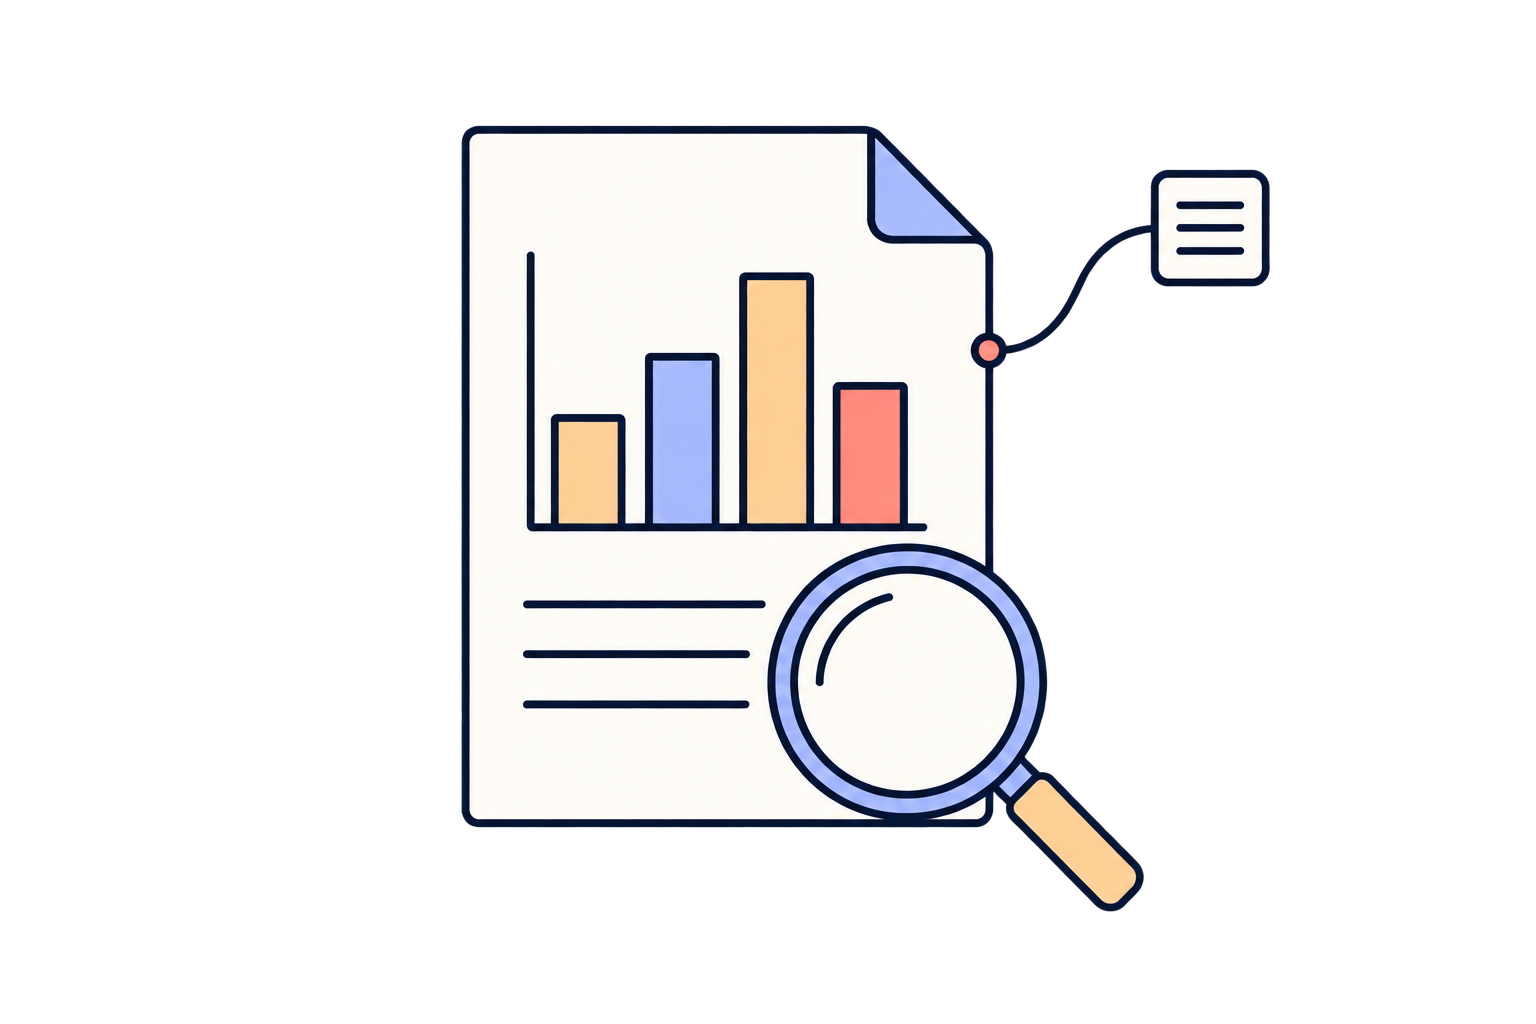
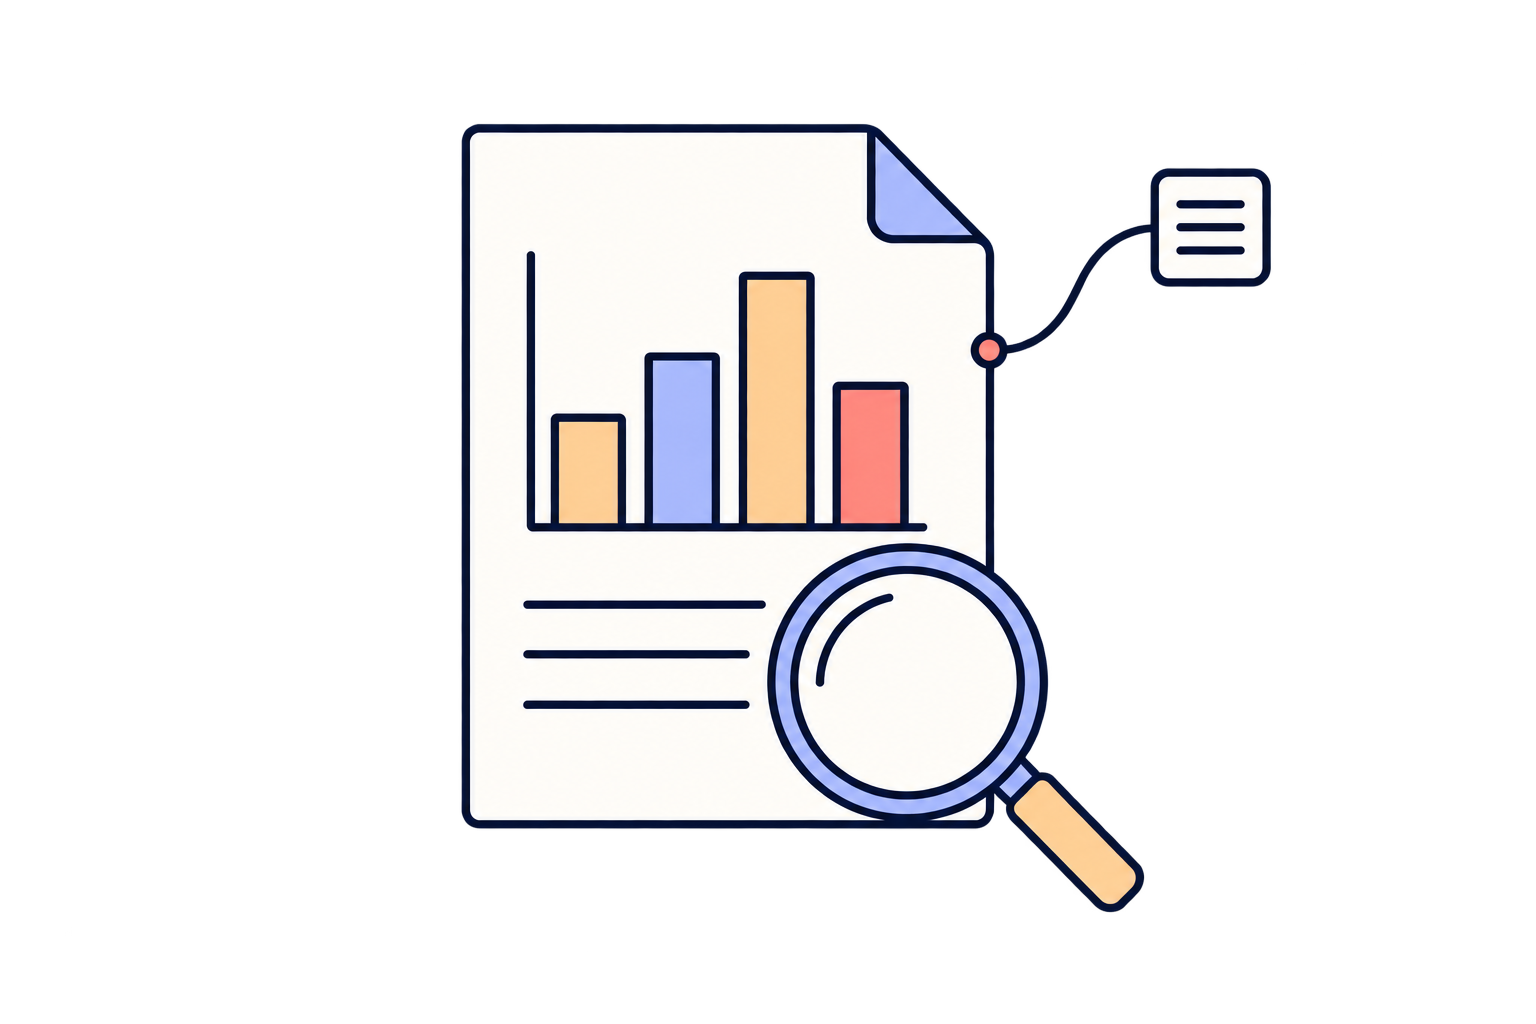
fix: tighten citation validation and prompt evaluation

diff --git a/web/assets/css/budgetlens.css b/web/assets/css/budgetlens.css
@@ -1,6 +1,7 @@
 :root {
   color-scheme: light;
-  font-family: Inter, ui-sans-serif, system-ui, -apple-system, BlinkMacSystemFont, "Segoe UI", sans-serif;
+  font-family: "DM Sans", ui-sans-serif, system-ui, -apple-system, BlinkMacSystemFont, "Segoe UI", sans-serif;
+  --bl-display: "Space Grotesk", "DM Sans", ui-sans-serif, system-ui, sans-serif;
   color: #485264;
   background: #faf7f2;
   font-synthesis: none;
@@ -461,13 +462,13 @@ body { background: var(--bl-page); }
 .hero-copy h1 {
   margin: 2px 0 17px;
   color: var(--bl-ink);
-  font-family: Georgia, "Times New Roman", serif;
+  font-family: var(--bl-display);
   font-size: clamp(48px, 4.7vw, 64px);
   font-weight: 600;
   letter-spacing: -.055em;
   line-height: .98;
 }
-.hero-copy h1 em { color: #aa655d; font-weight: 500; }
+.hero-copy h1 em { color: #aa655d; font-style: normal; font-weight: 600; }
 .hero-lede { max-width: 490px; color: #4f5d68; font-size: 17px; line-height: 1.58; }
 .hero-actions { align-items: center; gap: 21px; margin-top: 23px; }
 .hero-text-link { color: var(--bl-ink); font-size: 14px; font-weight: 650; text-underline-offset: 4px; }
@@ -535,14 +536,14 @@ body { background: var(--bl-page); }
 .question-card-compact .question-form-bottom .bl-button { min-height: 39px; }
 .question-card-compact .question-suggestions { margin-top: 11px; }
 .hero-question-empty { padding: 21px 24px; border-color: rgba(255,255,255,.75); background: rgba(255,255,252,.78); -webkit-backdrop-filter: blur(18px); backdrop-filter: blur(18px); }
-.hero-question-empty h2 { margin: 7px 0; color: var(--bl-ink); font: 600 22px/1.2 Georgia, "Times New Roman", serif; }
+.hero-question-empty h2 { margin: 7px 0; color: var(--bl-ink); font: 600 22px/1.2 var(--bl-display); }
 .hero-question-empty p:not(.bl-kicker) { margin: 0 0 13px; color: var(--bl-muted); font-size: 13px; }
 .trust-strip { border-color: var(--bl-line); }
 .trust-strip > div { padding: 20px 24px; }
 .trust-strip strong { color: var(--bl-ink); font-weight: 650; }
 .trust-strip span { color: var(--bl-muted); }
 .process-section { padding-block: 78px; }
-.section-intro h2, .section-heading h2 { color: var(--bl-ink); font-family: Georgia, "Times New Roman", serif; font-weight: 500; letter-spacing: -.045em; }
+.section-intro h2, .section-heading h2 { color: var(--bl-ink); font-family: var(--bl-display); font-weight: 600; letter-spacing: -.045em; }
 .process-grid { gap: 20px; }
 .process-item { border-top: 1px solid var(--bl-line); }
 .process-rule { width: 36px; height: 2px; background: #d37d6d; }
@@ -552,7 +553,7 @@ body { background: var(--bl-page); }
 .report-placeholder { border-color: var(--bl-line); background: rgba(255,255,252,.64); }
 .report-placeholder span { background: #e9e6ef; }
 .closing-cta { min-height: 230px; border: 1px solid #e1d9d8; border-radius: 20px; background: linear-gradient(110deg, #f7e8da, #f4e9e9 58%, #e9e8f7); color: var(--bl-ink); }
-.closing-copy h2 { color: var(--bl-ink); font-family: Georgia, "Times New Roman", serif; font-weight: 500; letter-spacing: -.045em; }
+.closing-copy h2 { color: var(--bl-ink); font-family: var(--bl-display); font-weight: 600; letter-spacing: -.045em; }
 .closing-cta .bl-kicker-inverse { color: var(--bl-spruce); }
 
 /* Report cards and source detail */
@@ -560,14 +561,14 @@ body { background: var(--bl-page); }
 .report-card:hover { border-color: #bbb8ce; box-shadow: 0 8px 24px rgba(34,38,68,.08); transform: translateY(-2px); }
 .record-source { color: var(--bl-spruce); }
 .record-period, .period-tag { background: #eeecf7; color: var(--bl-forest); }
-.report-card h3 { color: var(--bl-ink); font-family: Georgia, "Times New Roman", serif; font-weight: 500; letter-spacing: -.035em; }
+.report-card h3 { color: var(--bl-ink); font-family: var(--bl-display); font-weight: 600; letter-spacing: -.035em; }
 .record-figure { border-left: 1px solid #cf887a; background: #f7eee8; }
 .record-figure-label { color: var(--bl-spruce); }
 .record-figure strong, .report-action { color: var(--bl-forest); }
 .report-heading { border-color: var(--bl-line); }
-.report-heading h1 { color: var(--bl-ink); font-family: Georgia, "Times New Roman", serif; font-weight: 500; letter-spacing: -.045em; }
+.report-heading h1 { color: var(--bl-ink); font-family: var(--bl-display); font-weight: 600; letter-spacing: -.045em; }
 .figures-panel, .source-evidence { border-radius: 15px; }
-.panel-heading h2 { color: var(--bl-ink); font-family: Georgia, "Times New Roman", serif; font-weight: 500; letter-spacing: -.035em; }
+.panel-heading h2 { color: var(--bl-ink); font-family: var(--bl-display); font-weight: 600; letter-spacing: -.035em; }
 .report-summary { color: var(--bl-copy); }
 .figure-item, .extracted-metric { border-color: #e1dee5; background: #f7f5f2; }
 .figure-item strong, .extracted-metric strong { color: var(--bl-forest); }
@@ -579,7 +580,7 @@ body { background: var(--bl-page); }
 .citation-card { border-color: #e4e2d7; }
 
 /* Upload */
-.upload-heading h1 { color: var(--bl-ink); font-family: Georgia, "Times New Roman", serif; font-weight: 500; letter-spacing: -.045em; }
+.upload-heading h1 { color: var(--bl-ink); font-family: var(--bl-display); font-weight: 600; letter-spacing: -.045em; }
 .upload-heading h1 span { color: var(--bl-forest); }
 .upload-art { height: 300px; border: 0; border-radius: 0; background: transparent; }
 .upload-art img { object-fit: contain; }
@@ -592,8 +593,8 @@ body { background: var(--bl-page); }
 .upload-privacy { border-color: var(--bl-line); }
 .dark-aside { border-color: var(--bl-forest-deep); background: var(--bl-forest-deep); }
 .privacy-aside { background: rgba(255,255,252,.76); }
-.privacy-aside h3 { color: var(--bl-ink); font-family: Georgia, "Times New Roman", serif; font-weight: 500; }
-.extracted-report h2 { color: var(--bl-ink); font-family: Georgia, "Times New Roman", serif; font-weight: 500; letter-spacing: -.035em; }
+.privacy-aside h3 { color: var(--bl-ink); font-family: var(--bl-display); font-weight: 600; }
+.extracted-report h2 { color: var(--bl-ink); font-family: var(--bl-display); font-weight: 600; letter-spacing: -.035em; }
 
 .bl-footer { border-color: var(--bl-line); }
 .bl-footer .bl-brand { color: var(--bl-ink); }

diff --git a/web/pages/reports/[id].vue b/web/pages/reports/[id].vue
@@ -41,7 +41,6 @@ onMounted(loadReport);
       <template v-else-if="report">
         <header class="report-heading">
           <div class="report-heading-copy">
-            <p class="bl-kicker">{{ report.sourceName || report.organization || 'Public source' }}</p>
             <h1>{{ report.title }}</h1>
             <p class="report-meta">{{ [report.organization, report.period].filter(Boolean).join(' · ') }}</p>
           </div>
@@ -72,14 +71,13 @@ onMounted(loadReport);
               <p class="figures-note">Figures are transcribed from the report. AI answers appear separately with their supporting evidence.</p>
             </section>
 
-            <section v-if="report.evidence?.length" class="source-evidence bl-panel" aria-labelledby="evidence-title">
+            <section v-if="report.evidence?.some((item) => item.quote?.trim())" class="source-evidence bl-panel" aria-labelledby="evidence-title">
               <div class="panel-heading">
                 <div>
-                  <p class="bl-kicker">Check the wording</p>
                   <h2 id="evidence-title">Evidence passages</h2>
                 </div>
               </div>
-              <blockquote v-for="(item, index) in report.evidence" :key="`${item.page}-${index}`" class="source-passage">
+              <blockquote v-for="(item, index) in report.evidence.filter((item) => item.quote?.trim())" :key="`${item.page}-${index}`" class="source-passage">
                 <span>{{ item.label || 'Report passage' }}</span>
                 <p>“{{ item.quote }}”</p>
                 <small>{{ item.page == null ? 'Source page not identified' : `Page ${item.page}` }}</small>
@@ -93,10 +91,6 @@ onMounted(loadReport);
               :ask-path="`/budget/reports/${encodeURIComponent(report.id)}/ask`"
               :suggestions="['Summarize the key points', 'What dates or figures should I note?']"
             />
-            <div class="source-note">
-              <span class="source-note-label">Answer scope</span>
-              <p>Answers use this source only. Passage says when the document does not provide enough information.</p>
-            </div>
           </aside>
         </div>
       </template>

diff --git a/web/pages/index.vue b/web/pages/index.vue
@@ -76,7 +76,7 @@ onMounted(loadReports);
 
       <section class="trust-strip" aria-label="How Passage works">
         <div><strong>Page-level citations</strong><span>Trace answers back to the source.</span></div>
-        <div><strong>Grounded answers</strong><span>Passage says when a document is silent.</span></div>
+        <div><strong>Grounded answers</strong><span>Flags missing evidence.</span></div>
         <div><strong>Private PDF sessions</strong><span>Uploads stay out of the example library.</span></div>
       </section>
 
@@ -99,7 +99,7 @@ onMounted(loadReports);
           <article class="process-item">
             <span class="process-rule" aria-hidden="true"></span>
             <h3>Check the evidence</h3>
-            <p>Review the cited passage or see when the report does not support an answer.</p>
+            <p>See the cited passage, or when the document does not support an answer.</p>
           </article>
         </div>
       </section>
@@ -129,7 +129,6 @@ onMounted(loadReports);
           <p>Bring a PDF to ask questions and check the cited passages.</p>
           <NuxtLink to="/upload" class="bl-button bl-button-primary">Upload a PDF</NuxtLink>
         </div>
-        <p class="library-source-note">This sample is a published public report. Answers appear separately with the passages that support them.</p>
       </section>
 
       <section class="closing-cta" aria-labelledby="closing-title">

diff --git a/web/components/BudgetQuestion.vue b/web/components/BudgetQuestion.vue
@@ -50,9 +50,7 @@ async function ask(value = question.value) {
 <template>
   <section class="question-card bl-panel" :class="{ 'question-card-compact': compact }" aria-labelledby="ask-title">
     <div class="question-intro">
-      <p class="bl-kicker">Ask this document</p>
       <h2 id="ask-title">{{ title }}</h2>
-      <p>Answers use this document only. Supporting passages appear when the source can verify an answer.</p>
     </div>
 
     <form class="question-form" @submit.prevent="ask()">
@@ -91,7 +89,7 @@ async function ask(value = question.value) {
           <span class="citation-label">{{ citation.label || 'Source passage' }}</span>
           <p v-if="citation.kind === 'metadata'">{{ citation.value }}</p>
           <p v-else>“{{ citation.quote }}”</p>
-          <small>{{ citation.kind === 'metadata' ? 'Report listing metadata' : citation.page == null ? 'Source page not identified' : `Page ${citation.page}` }}</small>
+          <small>{{ citation.kind === 'metadata' ? 'Document listing metadata' : citation.page == null ? 'Source page not identified' : `Page ${citation.page}` }}</small>
         </article>
       </div>
       <p v-else class="no-citation">No supporting passage was returned. Treat this answer as unverified.</p>

diff --git a/web/app.vue b/web/app.vue
@@ -6,7 +6,7 @@ useHead({
     { rel: 'icon', type: 'image/png', href: '/brand/passage-mark.png' },
     { rel: 'preconnect', href: 'https://fonts.googleapis.com' },
     { rel: 'preconnect', href: 'https://fonts.gstatic.com', crossorigin: 'anonymous' },
-    { rel: 'stylesheet', href: 'https://fonts.googleapis.com/css2?family=Inter:wght@400;500;600;700;800;900&display=swap' },
+    { rel: 'stylesheet', href: 'https://fonts.googleapis.com/css2?family=DM+Sans:wght@400;500;600;700;800;900&family=Space+Grotesk:wght@500;600;700&display=swap' },
   ],
 });
 </script>
@@ -18,7 +18,7 @@ useHead({
 <style>
 :root {
   color-scheme: light;
-  font-family: Inter, ui-sans-serif, system-ui, -apple-system, BlinkMacSystemFont, "Segoe UI", sans-serif;
+  font-family: "DM Sans", ui-sans-serif, system-ui, -apple-system, BlinkMacSystemFont, "Segoe UI", sans-serif;
   color: #273148;
   background: #faf7f2;
   font-synthesis: none;

diff --git a/api/src/evaluate-budget-prompt.ts b/api/src/evaluate-budget-prompt.ts
@@ -16,7 +16,7 @@ const cases = JSON.parse(
 ) as EvaluationCase[];
 let failed = 0;
 
-if (!/only from the supplied report evidence/i.test(BUDGET_QA_INSTRUCTIONS) ||
+if (!/only from the supplied document evidence/i.test(BUDGET_QA_INSTRUCTIONS) ||
   !/official report-listing field/i.test(BUDGET_QA_INSTRUCTIONS) ||
   !/use it for date or period questions/i.test(BUDGET_QA_INSTRUCTIONS) ||
   !/empty citationIndexes array/i.test(BUDGET_QA_INSTRUCTIONS) ||

diff --git a/docs/design/study.md b/docs/design/study.md
@@ -4,7 +4,7 @@
 
 ## References and transferable patterns
 
-| Reference | Observed pattern | Use in BudgetLens |
+| Reference | Observed pattern | Use in Passage |
 |---|---|---|
 | [Trajectory](https://www.trajectory.ai/) | Airy editorial opening, warm pale color fields, restrained grid lines, and fine illustrated artwork. Later sections shift in scale and tone. | Keep the page spacious. Use paper colors, line art, and deliberate changes between sections. Do not copy the product's artwork or branding. |
 | User-supplied Wrk screenshot | Clear navigation, visible calls to action, and a large product interface shown as proof. | Make upload and example browsing easy to find. Show live source details rather than customer logos or invented metrics. |
@@ -24,7 +24,7 @@
 ## Visual decisions
 
 - Warm paper canvas; deep navy ink; coral and periwinkle accents. No green.
-- Georgia for large editorial headings and the existing system sans for body and controls.
+- Space Grotesk for display headings and DM Sans for body text and controls.
 - Fine rule borders, transparent line art, and a visibly frosted prompt bar.
 - Short hover, focus, and border transitions only. No pulsing dots, shimmer, or looping decoration.
 - Remove the category kicker above the home headline. Keep the hero copy brief and place the prompt directly after it on small screens.

diff --git a/docs/design/DESIGN.md b/docs/design/DESIGN.md
@@ -21,9 +21,9 @@
 
 ## Brand anchor
 
-- **Vibe:** Airy document editorial with a clear product interface. Use serif display headlines, thin rules, warm paper surfaces, and real source data.
+- **Vibe:** Airy document editorial with a clear product interface. Use confident geometric headings, thin rules, warm paper surfaces, and real source data.
 - **Palette:** Warm paper `#faf7f2`, navy ink `#20283d`, indigo `#34395f`, coral `#ef8b70`, periwinkle, and muted slate. Do not use green.
-- **Type:** System sans for controls and body copy; Georgia for large editorial headings. Do not load a new font service.
+- **Type:** Space Grotesk for headings and DM Sans for controls and body copy.
 - **Logo:** Generated open-page line-art mark with a live Passage wordmark. File: `web/public/brand/passage-mark.png`.
 - **Shape:** Small to medium corner radii, hairline dividers, and one clearly frosted prompt bar. Keep blur behind the input, with a readable fallback.
 - **Imagery:** Original line art supports the hero and upload page. Actual report names, values, periods, pages, and AI evidence remain HTML data from the API. See `docs/design/iterations/r5-passage/asset-manifest.md`.

diff --git a/docs/design/iterations/r5-passage/direction.md b/docs/design/iterations/r5-passage/direction.md
@@ -15,7 +15,7 @@ Passage is a PDF question-and-answer reader. People ask a question, get a docume
 ## Visual system
 
 - Warm ivory, navy, indigo, coral, and periwinkle. No green.
-- Georgia display headlines with the existing system sans for UI and body text.
+- Space Grotesk display headings with DM Sans for UI and body text.
 - Hairline borders, soft paper panels, one frosted input surface, and small hover/focus movements.
 - No pulsing indicators, status dots, shimmer, or decorative AI sparkles.
 
